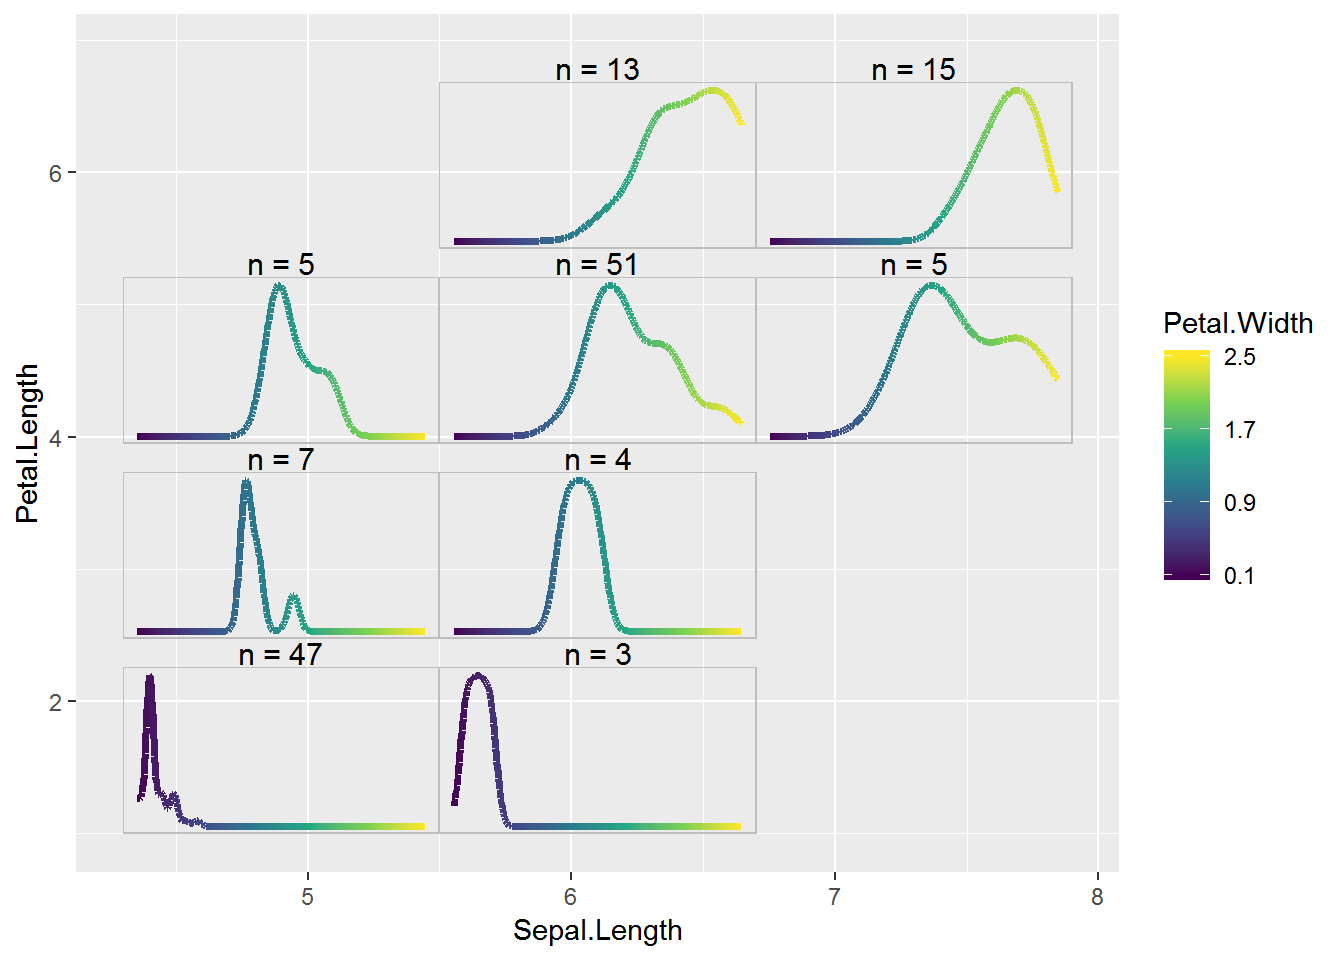
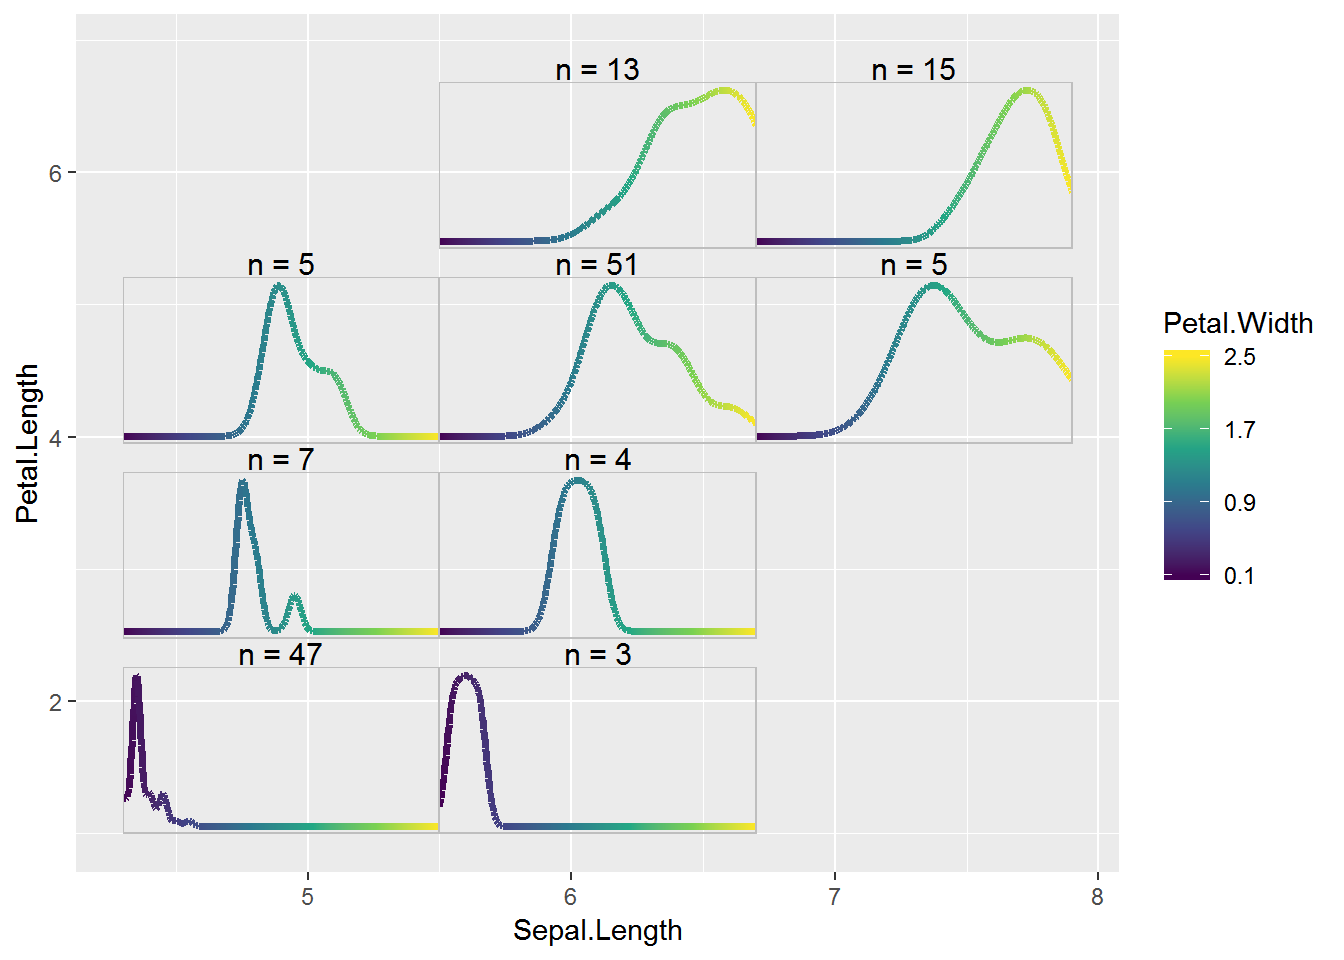
Now add filled density plots with ggridges to embedded plots post

diff --git a/content/post/2019-04-22-embedding-subplots.html b/content/post/2019-04-22-embedding-subplots.html
@@ -319,12 +319,13 @@ allplots</code></pre>
 <h1>A density subplot example</h1>
 <p>I thought the histogram subplots ended up being pretty tricky, what with having to figure out the plot limits and the bar widths and centers.</p>
 <p>Density plots are another possibility for showing the distribution of continuous data, and the color of the line can be allowed to vary.</p>
-<p>Here’s an example of what a density plot could look like. In some scenarios using <code>trim = TRUE</code> may be useful in <code>stat_density()</code>.</p>
+<p>Here’s an example of what a density plot could look like. In some scenarios using <code>trim = TRUE</code> may be useful in <code>stat_density()</code>. You’ll notice I set the x axis limits to the minimum and maximum value in the datast with no padding for this plot.</p>
 <pre class="r"><code>ggplot(data = filter(iris, max_x &lt;= 5.5, max_y &lt;= 2.475),
        aes(x = Petal.Width, y = stat(ndensity), color = stat(x) ) ) +
      stat_density(geom = &quot;line&quot;, size = 1.25) +
      theme_void(base_size = 14) +
-     scale_x_continuous(limits = c(0.1, 2.5) ) +
+     scale_x_continuous(limits = c(0.1, 2.5),
+                        expand = c(0, 0) ) +
      scale_color_viridis_c(guide  = &quot;none&quot;,
                            limits = c(.1, 2.5) ) +
      facet_wrap(~paste0(&quot;n = &quot;, nrow(filter(iris, max_x &lt;= 5.5, max_y &lt;= 2.475) ) ) ) +
@@ -337,7 +338,8 @@ allplots</code></pre>
             aes(x = Petal.Width, y = stat(ndensity), color = stat(x) ) ) +
           stat_density(geom = &quot;line&quot;, size = 1.25) +
           theme_void(base_size = 14) +
-          scale_x_continuous(limits = c(0.1, 2.5) ) +
+          scale_x_continuous(limits = c(0.1, 2.5),
+                             expand = c(0, 0) ) +
           scale_color_viridis_c(guide  = &quot;none&quot;,
                                 limits = c(.1, 2.5) ) +
           facet_wrap(~paste0(&quot;n = &quot;, nrow(data) ) ) +
@@ -357,4 +359,53 @@ allplots</code></pre>
      ylim(1, NA)</code></pre>
 <pre><code># Warning: Removed 150 rows containing missing values (geom_col).</code></pre>
 <p><img src="/post/2019-04-22-embedding-subplots_files/figure-html/unnamed-chunk-25-1.png" width="672" /></p>
+</div>
+<div id="filled-density-plots" class="section level1">
+<h1><a href="#filled-density-plots">Filled density plots</a></h1>
+<p>I belatedly realized that we can use <code>geom_density_ridges_gradient()</code> from package <strong>ggridges</strong> to make density plots with continuous fill.</p>
+<p>Since this package is really for <a href="https://cran.r-project.org/web/packages/ggridges/vignettes/introduction.html">ridge plots</a>, I use <code>y = 1</code> to get a single density plot. This geom uses a relative scale by default so <code>stat(ndensity)</code> isn’t needed.</p>
+<pre class="r"><code>library(ggridges) # v 0.5.1
+ggplot(data = filter(iris, max_x &lt;= 5.5, max_y &lt;= 2.475),
+       aes(x = Petal.Width, y = 1, fill = stat(x) ) ) +
+     geom_density_ridges_gradient() +
+     theme_void(base_size = 14) +
+     scale_x_continuous(limits = c(0.1, 2.5),
+                        expand = c(0, 0) ) +
+     scale_fill_viridis_c(guide  = &quot;none&quot;,
+                           limits = c(.1, 2.5) ) +
+     facet_wrap(~paste0(&quot;n = &quot;, nrow(filter(iris, max_x &lt;= 5.5, max_y &lt;= 2.475) ) ) ) +
+     theme(panel.border = element_rect(color = &quot;grey&quot;,
+                                       fill = &quot;transparent&quot;) )</code></pre>
+<p><img src="/post/2019-04-22-embedding-subplots_files/figure-html/unnamed-chunk-26-1.png" width="672" /></p>
+<p>Let’s see how that looks as embedded plots. I’ll do the whole process in one code chunk, taking some extra time to move the legend around in the final plot.</p>
+<pre class="r"><code>densfun2 = function(data) {
+  ggplot(data = data,
+         aes(x = Petal.Width, y = 1, fill = stat(x) ) ) +
+    geom_density_ridges_gradient() +
+    theme_void(base_size = 14) +
+    scale_x_continuous(limits = c(0.1, 2.5),
+                       expand = c(0, 0) ) +
+    scale_fill_viridis_c(guide  = &quot;none&quot;,
+                         limits = c(.1, 2.5) ) +
+    facet_wrap(~paste0(&quot;n = &quot;, nrow(data) ) ) +
+    theme(panel.border = element_rect(color = &quot;grey&quot;,
+                                      fill = &quot;transparent&quot;) )
+}
+allgrobs_dens2 = iris %&gt;%
+    group_by_at( vars( matches(&quot;min|max&quot;) ) ) %&gt;%
+    group_nest() %&gt;%
+    mutate(subplots = map(data, densfun2) ) %&gt;%
+    select(-data) %&gt;%
+    mutate(grobs = pmap(., grobfun) )
+
+largeplot2 +
+    allgrobs_dens2$grobs +
+    ylim(1, NA) +
+    theme_bw() +
+    theme(legend.direction = &quot;horizontal&quot;,
+          legend.position = c(.8, .25),
+          legend.background = element_blank() ) +
+    guides(fill = guide_colorbar(title.position = &quot;top&quot;) )</code></pre>
+<pre><code># Warning: Removed 150 rows containing missing values (geom_col).</code></pre>
+<p><img src="/post/2019-04-22-embedding-subplots_files/figure-html/unnamed-chunk-27-1.png" width="672" /></p>
 </div>
